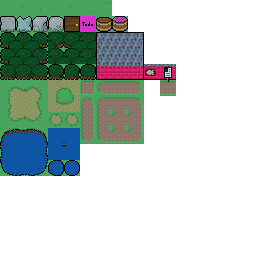
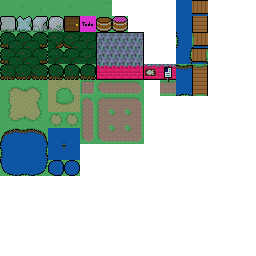
starting bridget

Changed region(s): [[0.6875, 0.0, 0.8125, 0.375]]

diff --git a/src/game/shared_symbols.h b/src/game/shared_symbols.h
@@ -264,6 +264,7 @@
 #define NS_activity_goblin_secret_entrance 39
 #define NS_activity_main_quest_wrap_up 40
 #define NS_activity_statuemaze_clue 41 /* (u16:msgid)0..3 */
+#define NS_activity_bridget 42 /* (u16:fld)bridgeNstart */
 
 #define NS_sprtype_dummy        0 /* (u32)0 */
 #define NS_sprtype_hero         1 /* (u32)0 */
@@ -544,6 +545,20 @@
 #define NS_fld_zoo1_1 102
 #define NS_fld_zoo1_2 103
 #define NS_fld_zoo1_3 104
+#define NS_fld_bridge1start 105 /* bridgeNstart are set the first time you talk to Bridget, and she sets the relevant fld16 */
+#define NS_fld_bridge2start 106 /* Use the bridgeNstart flags to refer to it. */
+#define NS_fld_bridge3start 107
+#define NS_fld_bridge4start 108
+#define NS_fld_bridge5start 109
+#define NS_fld_bridge6start 110
+#define NS_fld_bridge7start 111
+#define NS_fld_bridge1done 112 /* bridgeNdone are set after the bridge is built. */
+#define NS_fld_bridge2done 113
+#define NS_fld_bridge3done 114
+#define NS_fld_bridge4done 115
+#define NS_fld_bridge5done 116
+#define NS_fld_bridge6done 117
+#define NS_fld_bridge7done 118
 
 /* "fld16" are 16 unsigned bits each.
  */
@@ -560,6 +575,13 @@
 #define NS_fld16_labyrinth_seed 10
 #define NS_fld16_phonograph 11 /* Zero for default, or explicit song rid for outerworld. */
 #define NS_fld16_statuemaze_seed 12
+#define NS_fld16_bridge1q 13 /* Quantity outstanding. Only relevant if bridgeNstart and not bridgeNdone. */
+#define NS_fld16_bridge2q 14
+#define NS_fld16_bridge3q 15
+#define NS_fld16_bridge4q 16
+#define NS_fld16_bridge5q 17
+#define NS_fld16_bridge6q 18
+#define NS_fld16_bridge7q 19
 
 /* "clock" are floating-point seconds, and persist as integer ms.
  */

diff --git a/src/game/activity/activity_sidequests.c b/src/game/activity/activity_sidequests.c
@@ -308,3 +308,51 @@ void begin_invcritic(struct sprite *initiator) {
   };
   modal_spawn(&modal_type_dialogue,&args,sizeof(args));
 }
+
+/* Bridget: Build a bridge.
+ *  1: forest-botire: Stick.
+ *  2: forest-desert: 
+ *  3: forest-mountains: 
+ *  4: fractia-mountains: 
+ *  5: desert: 
+ *  6: botire-southjungle: 
+ *  7: botire-northjungle: 
+ *
+Eliminate two:
+match
+candy
+gold
+greenfish
+bluefish
+redfish
+telescope
+pepper
+/**/
+ 
+static const struct bridgetdata {
+  int fldstart;
+  int fld16q;
+  int flddone;
+  int itemid;
+  int quantity;
+} bridgetdata[]={
+  {NS_fld_bridge1start,NS_fld16_bridge1q,NS_fld_bridge1done,NS_itemid_stick,8},
+  {NS_fld_bridge2start,NS_fld16_bridge2q,NS_fld_bridge2done,NS_itemid_stick,8},
+  {NS_fld_bridge3start,NS_fld16_bridge3q,NS_fld_bridge3done,NS_itemid_stick,8},
+  {NS_fld_bridge4start,NS_fld16_bridge4q,NS_fld_bridge4done,NS_itemid_stick,8},
+  {NS_fld_bridge5start,NS_fld16_bridge5q,NS_fld_bridge5done,NS_itemid_stick,8},
+  {NS_fld_bridge6start,NS_fld16_bridge6q,NS_fld_bridge6done,NS_itemid_stick,8},
+  {NS_fld_bridge7start,NS_fld16_bridge7q,NS_fld_bridge7done,NS_itemid_stick,8},
+};
+ 
+void begin_bridget(struct sprite *initiator,int arg) {
+  struct text_insertion ins={.mode='i',.i=arg};
+  struct modal_args_dialogue args={
+    .text="Hi I'm Bridget number %0. (TEMP)",
+    .textc=-1,
+    .insv=&ins,
+    .insc=1,
+    .speaker=initiator,
+  };
+  modal_spawn(&modal_type_dialogue,&args,sizeof(args));
+}

diff --git a/src/game/activity/activity.c b/src/game/activity/activity.c
@@ -59,6 +59,7 @@ void game_begin_activity(int activity,int arg,struct sprite *initiator) {
     case NS_activity_goblin_secret_entrance: store_set_fld(NS_fld_goblin_secret_entrance,1); break;
     case NS_activity_main_quest_wrap_up: fprintf(stderr,"%s:%d:TODO: NS_activity_main_quest_wrap_up\n",__FILE__,__LINE__); break;
     case NS_activity_statuemaze_clue: begin_statuemaze_clue(initiator,arg); break;
+    case NS_activity_bridget: begin_bridget(initiator,arg); break;
     default: {
         fprintf(stderr,"Unknown activity %d.\n",activity);
       }

diff --git a/src/game/activity/activity_internal.h b/src/game/activity/activity_internal.h
@@ -33,6 +33,7 @@ void begin_knitter(struct sprite *initiator);
 void begin_tree(struct sprite *initiator,int arg);
 void begin_generic_tolltroll(struct sprite *initiator,int arg);
 void begin_invcritic(struct sprite *initiator);
+void begin_bridget(struct sprite *initiator,int arg);
 
 // activity_princess.c
 void begin_king(struct sprite *initiator);

diff --git a/src/game/battle/battle_lawnmowing.c b/src/game/battle/battle_lawnmowing.c
@@ -1,9 +1,9 @@
 /* battle_lawnmowing.c
  * Moving constantly, turn to cut the grass and don't touch cells you've already visited.
- * TODO placeholder
  */
 
 #include "game/bellacopia.h"
+#include "game/batsup/batsup_world.h"
 
 struct battle_lawnmowing {
   struct battle hdr;

diff --git a/src/game/modal/modal_arcade.c b/src/game/modal/modal_arcade.c
@@ -8,7 +8,7 @@
 
 #include "game/bellacopia.h"
 
-#define PRESELECT_BATTLE NS_battle_traffic
+#define PRESELECT_BATTLE NS_battle_lawnmowing
 
 #define ROWC 20 /* FBH / font height */
 #define KEY_REPEAT_INITIAL 0.250

diff --git a/README.md b/README.md
@@ -42,6 +42,8 @@ Requires [Egg](https://github.com/aksommerville/egg2) to build.
 - - First one, "I'm building a bridge out of sticks! I need 8 more sticks.". And every other bridge is some other item, growing more ridiculous the further you go. Candy, fish, telescope...
 - [x] Phonograph modal should dismiss noop on WEST. We are treating it same as SOUTH.
 - - ...i was mistaken. WEST restores the default, as it ought to. Default happened to be the thing I had highlighted.
+- [ ] Petrifying: Make knights slower, and the line of sight wider.
+- [ ] Broom Race: Can we show a hint where the next item will appear? So you can decide to forfeit one for a better position on the next.
 
 - For exploration some time in the uncertain future.
 - [ ] Acquire stories.
